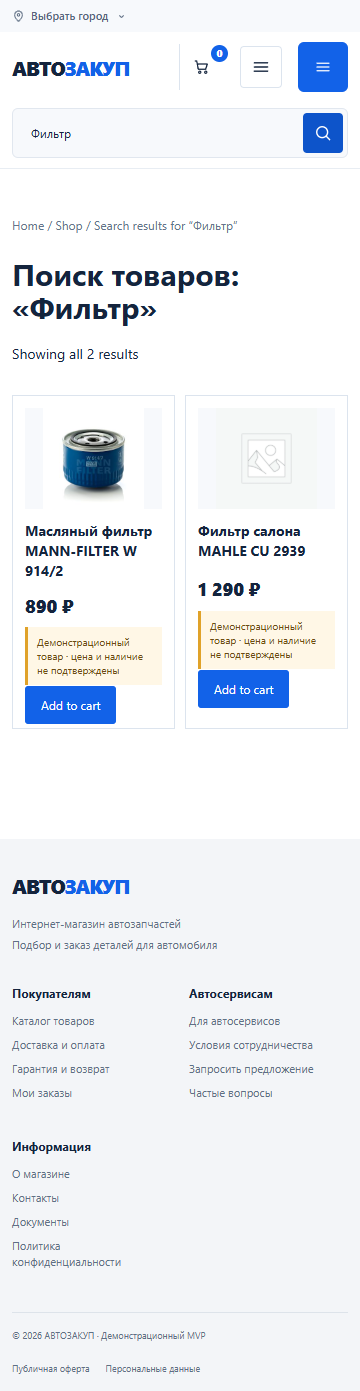
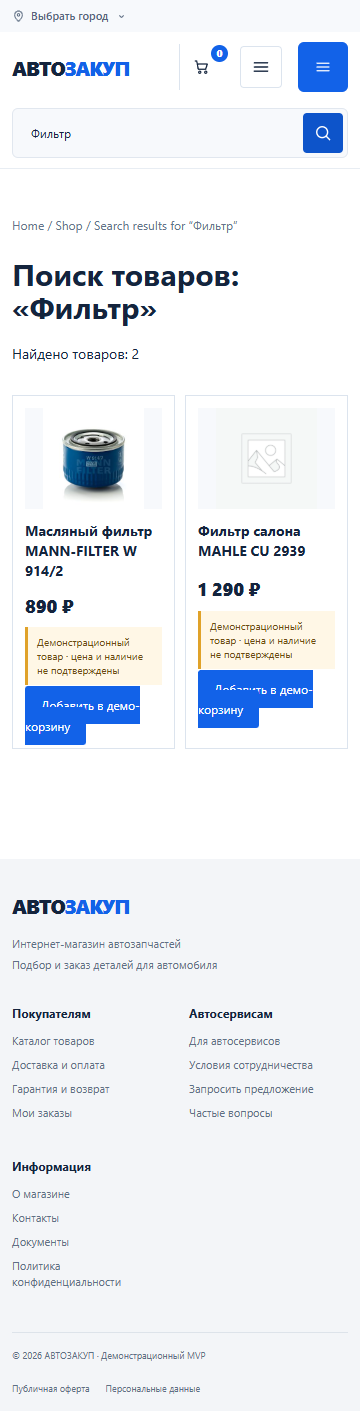
Align scoped Woo public copy

diff --git a/tests/e2e/catalog.spec.ts b/tests/e2e/catalog.spec.ts
@@ -28,6 +28,7 @@ test('opens the dynamic catalog and a published WooCommerce category', async ({ 
   expect(shopUrl, 'The header must expose the configured WooCommerce shop URL').toBeTruthy();
   expect(new URL(shopUrl!, page.url()).pathname, 'The repaired catalog route must use the canonical WooCommerce slug').toBe('/shop/');
   await page.goto(shopUrl!, { waitUntil: 'networkidle' });
+  await expect(page.getByRole('heading', { level: 1, name: 'Каталог товаров' })).toBeVisible();
 
   const catalog = page.locator('.az-shop-categories');
   await expect(catalog).toBeVisible();
@@ -149,6 +150,8 @@ test('keeps the marked demo PDP technical and relation-safe', async ({ page }, t
 
   await expect(page.locator('.woocommerce-product-details__short-description')).toBeVisible();
   await expect(page.locator('.woocommerce-Tabs-panel--description')).toBeVisible();
+  await expect(page.locator('.woocommerce-tabs .description_tab')).toContainText('Описание');
+  await expect(page.locator('.woocommerce-Tabs-panel--description h2')).toHaveText('Описание');
   await expect(page.locator('[data-demo-provenance="product"]')).toBeVisible();
 
   const demoMeta = page.locator('[data-demo-product-meta="product"]');

diff --git a/tests/e2e/search.spec.ts b/tests/e2e/search.spec.ts
@@ -93,6 +93,7 @@ test('keeps generic product-search results scoped and explicit', async ({ page }
   await expect(page.locator('[data-product-search-empty]')).toHaveCount(0);
   await expect(page.locator('.az-shop-categories')).toHaveCount(0);
   await expect(page.locator('.woocommerce-ordering')).toHaveCount(0);
+  await expect(page.locator('[data-product-search-count]')).toHaveText('Найдено товаров: 2');
 
   const products = page.locator('ul.products li.product');
   await expect(products).toHaveCount(2);
@@ -102,6 +103,7 @@ test('keeps generic product-search results scoped and explicit', async ({ page }
     await expect(productTitle).toBeVisible();
     expect((await productTitle.innerText()).trim()).not.toBe('');
     await expect(product.locator('[data-demo-provenance="product"]')).toContainText('Демонстрационный товар');
+    await expect(product.locator('.add_to_cart_button')).toHaveText('Добавить в демо-корзину');
     const productUrl = await product.locator('.woocommerce-loop-product__link').getAttribute('href');
     expect(productUrl).toBeTruthy();
     const parsedProductUrl = new URL(productUrl!, page.url());

diff --git a/wp-content/themes/avtozakup/style.css b/wp-content/themes/avtozakup/style.css
@@ -3,7 +3,7 @@ Theme Name: Автозакуп
 Theme URI: https://example.invalid/avtozakup
 Author: Автозакуп
 Description: Кастомная WooCommerce-тема первой итерации проекта «АВТОЗАКУП».
-Version: 0.6.0
+Version: 0.7.0
 Requires at least: 7.0
 Requires PHP: 8.3
 Text Domain: avtozakup

diff --git a/wp-content/themes/avtozakup/functions.php b/wp-content/themes/avtozakup/functions.php
@@ -5,7 +5,7 @@ if ( ! defined( 'ABSPATH' ) ) {
 	exit;
 }
 
-define( 'AVTOZAKUP_THEME_VERSION', '0.6.0' );
+define( 'AVTOZAKUP_THEME_VERSION', '0.7.0' );
 define( 'AVTOZAKUP_THEME_DIR', get_template_directory() );
 define( 'AVTOZAKUP_THEME_URI', get_template_directory_uri() );
 
@@ -173,6 +173,14 @@ function avtozakup_demo_single_add_to_cart_text( string $text, WC_Product $produ
 	return 'Добавить в демо-корзину';
 }
 
+function avtozakup_demo_loop_add_to_cart_text( string $text, WC_Product $product ): string {
+	$is_direct_add = $product->is_type( 'simple' )
+		&& $product->is_purchasable()
+		&& $product->is_in_stock()
+		&& $product->supports( 'ajax_add_to_cart' );
+	return null !== avtozakup_demo_product_provenance( $product ) && $is_direct_add ? 'Добавить в демо-корзину' : $text;
+}
+
 function avtozakup_is_product_search_request(): bool {
 	if ( ! is_search() ) {
 		return false;
@@ -183,13 +191,29 @@ function avtozakup_is_product_search_request(): bool {
 		|| ( is_array( $post_type ) && 1 === count( $post_type ) && 'product' === reset( $post_type ) );
 }
 
-function avtozakup_product_search_page_title( string $title ): string {
+function avtozakup_woocommerce_page_title( string $title ): string {
+	if ( function_exists( 'is_shop' ) && is_shop() && ! is_search() ) {
+		return 'Каталог товаров';
+	}
+
 	if ( ! avtozakup_is_product_search_request() ) {
 		return $title;
 	}
 
 	$query = sanitize_text_field( get_search_query( false ) );
 	return sprintf( 'Поиск товаров: «%s»', esc_html( $query ) );
+}
+
+function avtozakup_render_product_search_result_count(): void {
+	global $wp_query;
+	$count = $wp_query instanceof WP_Query ? (int) $wp_query->found_posts : 0;
+	?>
+	<p class="woocommerce-result-count" data-product-search-count><?php echo esc_html( sprintf( 'Найдено товаров: %d', $count ) ); ?></p>
+	<?php
+}
+
+function avtozakup_product_description_label( string $label ): string {
+	return 'Описание';
 }
 
 function avtozakup_render_product_search_empty_state(): void {
@@ -214,6 +238,8 @@ function avtozakup_configure_product_search_page(): void {
 
 	remove_action( 'woocommerce_no_products_found', 'wc_no_products_found', 10 );
 	add_action( 'woocommerce_no_products_found', 'avtozakup_render_product_search_empty_state', 10 );
+	remove_action( 'woocommerce_before_shop_loop', 'woocommerce_result_count', 20 );
+	add_action( 'woocommerce_before_shop_loop', 'avtozakup_render_product_search_result_count', 20 );
 	remove_action( 'woocommerce_before_shop_loop', 'woocommerce_catalog_ordering', 30 );
 }
 
@@ -223,7 +249,10 @@ add_action( 'wp', 'avtozakup_configure_demo_product_page' );
 add_action( 'wp', 'avtozakup_configure_product_search_page' );
 add_filter( 'woocommerce_get_availability_text', 'avtozakup_demo_product_availability_text', 10, 2 );
 add_filter( 'woocommerce_product_single_add_to_cart_text', 'avtozakup_demo_single_add_to_cart_text', 10, 2 );
-add_filter( 'woocommerce_page_title', 'avtozakup_product_search_page_title' );
+add_filter( 'woocommerce_product_add_to_cart_text', 'avtozakup_demo_loop_add_to_cart_text', 10, 2 );
+add_filter( 'woocommerce_product_description_tab_title', 'avtozakup_product_description_label' );
+add_filter( 'woocommerce_product_description_heading', 'avtozakup_product_description_label' );
+add_filter( 'woocommerce_page_title', 'avtozakup_woocommerce_page_title' );
 
 add_action(
 	'woocommerce_before_shop_loop',

diff --git a/docs/implementation/progress.md b/docs/implementation/progress.md
@@ -17,6 +17,7 @@
 | Demo provenance Woo | marked products явно подписаны на category/search cards и PDP; PDP показывает whitelisted Paper source, unknown raw meta не публикуется | реальные sources/freshness/offers только после DEC/интеграционных контрактов | `DONE / PROVISIONAL` для `I2-S3`; `PBL-011/FR-CAT-002/FR-OFR-002 partial` |
 | Technical demo PDP | exact seed SKU назван техническим, availability не выдаёт численный stock, action ведёт в демо-корзину, default related скрыт у marked demo | полный SCR-009, verified identifiers/relations/fitment/offers после DEC и контрактов | `DONE / PROVISIONAL` для `I2-S4`; `FR-CAT-002/003 partial` |
 | Product search baseline | neutral generic form; escaped query context/no-results; positive `Фильтр` → `2` product cards; shop category grid исключён из results | field index/ranking/normalization/suggestions и утверждённый DG-001/018 | `DONE / PROVISIONAL` для `I2-S5/S6`; `PBL-002/006/012` остаются blocked |
+| Scoped Woo public copy | shop H1, search count, demo loop action и PDP description labels локализованы named hooks без data mutation | breadcrumb/full Woo/admin/account/cart/checkout translation | `DONE / PROVISIONAL` для `I2-S7`; не полный i18n |
 | Demo safety | AJAX add, badge, cart page, classic disabled checkout и direct Store API 403 прошли; demo маркировка сохранена | production commerce остаётся blocked до DEC | `DONE` для demo safety Итерации 1 |
 | Mobile | `390` и `360` проходят no-overflow, axe baseline и browser-error checks | утверждённый mobile-макет после DEC-019/020 | `DONE` для provisional adaptation; `DESIGN_REVIEW_REQUIRED` |
 | Local Docker | dev config/build/up и restart persistence пройдены | повторять после инфраструктурных изменений | `DONE` для локального контура |
@@ -24,7 +25,7 @@
 | Backup/restore | парный DB+uploads backup проверен; isolated restore drill прошёл | production retention и scheduled recovery drill | `DONE` для локального drill |
 | Git deployment | ff-only/pre-backup/smoke script подготовлен, но Git remote и серверный target не подтверждены | создать/подтвердить remote, branch и staging/server access | `BLOCKED`; не DEPLOYED |
 | Server | доступ и диагностика не подтверждены | inventory existing sites/proxy/ports/volumes | `BLOCKED / NOT_DEPLOYED` |
-| E2E/a11y/visual | текущий Playwright: `28` tests, `26 passed`, `2 intentional skipped`, `0 failed`; catalog/search/PDP journeys на `1440/390/360` | утверждение visual baseline после DEC-019/020 | Iteration 1 и I2-S1/S3/S4/S5/S6 technical acceptance PASS; `DESIGN_REVIEW_REQUIRED` |
+| E2E/a11y/visual | текущий Playwright: `28` tests, `26 passed`, `2 intentional skipped`, `0 failed`; catalog/search/PDP journeys на `1440/390/360` | утверждение visual baseline после DEC-019/020 | Iteration 1 и I2-S1/S3/S4/S5/S6/S7 technical acceptance PASS; `DESIGN_REVIEW_REQUIRED` |
 
 ## Известные блокеры
 

diff --git a/docs/implementation/iterations.md b/docs/implementation/iterations.md
@@ -284,6 +284,35 @@ Qualifier: это prevention-срез; одноразовая локальная
 
 Статус относится только к generic fixture results presentation. Поля индекса, ranking и все перечисленные PBL/TC/DG/DEC остаются partial/open/blocked; visual имеет `DESIGN_REVIEW_REQUIRED`.
 
+### I2-S7 — scoped Woo public-copy consistency
+
+**Статус:** `DONE / PROVISIONAL`
+
+**Связь:** presentation quality для `I2-S1/S4/S6`, `PBL-010/011/012/PBL-040 partial`; бизнес-требования не расширяются.
+
+Критерии среза:
+
+- configured shop H1 отображается как «Каталог товаров» без изменения user-owned Woo page title;
+- product search result count отображается как «Найдено товаров: N» только на strict product search;
+- standard Woo loop action marked demo product подписан «Добавить в демо-корзину» только для direct-add simple/purchasable/in-stock/AJAX state; остальные состояния сохраняют штатный label;
+- PDP description tab и heading получают presentation label «Описание» без изменения content;
+- существующие catalog/search/PDP E2E утверждают эти labels на `1440/390/360` и screenshots обновляются;
+- data/query/ranking/cart guards и unmarked business data не меняются; полный regression не ухудшается.
+
+Вне scope: полноценный translation catalog, breadcrumb localization, admin copy, checkout/account/cart translation, approved typography/design and any business semantics.
+
+Выполнено и проверено:
+
+- shop H1 локализован presentation-only `woocommerce_page_title` filter; post title немаркированной Woo page не изменён;
+- strict product search заменяет только result-count callback на «Найдено товаров: N»; default query/count source сохранён;
+- direct-add marked demo Woo loop action и single action используют «Добавить в демо-корзину»; другие product states и checkout guard не менялись;
+- in-memory CTA gate control: current seeded direct-add product → demo label; cloned out-of-stock state сохраняет исходный `Read more`;
+- description tab/heading локализованы filters до «Описание» без template override/content mutation;
+- catalog/search/PDP targeted на `1440/390/360`: `15 passed`, `0 failed`; actual screenshots обновлены и визуально проверены;
+- full regression: `28` tests, `26 passed`, `2 intentional skipped`, `0 failed`.
+
+Статус относится только к четырём проверенным public labels. Breadcrumb, shop result count/sorting и остальные Woo/admin/account/cart/checkout strings остаются вне scope; visual `PROVISIONAL / DESIGN_REVIEW_REQUIRED`.
+
 ## Следующие итерации
 
 | Итерация-кандидат | Scope по исходному backlog | Gate |

diff --git a/docs/implementation/acceptance-status.md b/docs/implementation/acceptance-status.md
@@ -5,7 +5,7 @@
 
 **Приёмочный прогон Итерации 1:** `13` tests = `11 passed`, `2 intentional skipped`, `0 failed`.
 
-**Текущий regression после I2-S6:** `28` tests = `26 passed`, `2 intentional skipped`, `0 failed`; desktop `1440`, mobile `390`, mobile `360`, отдельный desktop admin project. Два skip — ожидаемые mobile-копии viewport-независимого Store API guard.
+**Текущий regression после I2-S7:** `28` tests = `26 passed`, `2 intentional skipped`, `0 failed`; desktop `1440`, mobile `390`, mobile `360`, отдельный desktop admin project. Два skip — ожидаемые mobile-копии viewport-независимого Store API guard.
 
 ## Технические критерии Итерации 2
 
@@ -77,6 +77,18 @@ I2-S5 имеет qualifier `PROVISIONAL / DESIGN_REVIEW_REQUIRED`; `TC-003` за
 | I2-S6-ACC-005 | Regression не ухудшен | `28` tests: `26 passed`, `2 intentional skipped`, `0 failed` | `PASS` |
 
 I2-S6 имеет qualifier `PROVISIONAL / DESIGN_REVIEW_REQUIRED`; field index contract, ranking, SKU/OEM/brand, `TC-001/002`, `DG-001/018` и `DEC-003` остаются open/blocked.
+
+### I2-S7 — scoped Woo public-copy consistency
+
+| ID | Критерий | Доказательство | Статус |
+|---|---|---|---|
+| I2-S7-ACC-001 | Shop title локализован без page mutation | `/shop/` H1 «Каталог товаров» на `1440/390/360`; filter-only | `PASS` |
+| I2-S7-ACC-002 | Search count локален и scoped | strict product search показывает `[data-product-search-count]` = «Найдено товаров: 2» | `PASS` |
+| I2-S7-ACC-003 | Direct-add demo action не выглядит production CTA | обе simple/purchasable/in-stock/AJAX result cards: demo label; in-memory out-of-stock clone сохраняет `Read more`; single PDP action остаётся demo | `PASS` |
+| I2-S7-ACC-004 | PDP description labels согласованы | marked PDP tab + heading «Описание» на `1440/390/360`; unconditional presentation filters, content unchanged | `PASS` |
+| I2-S7-ACC-005 | Regression не ухудшен | targeted `15 passed`; full `28`: `26 passed`, `2 intentional skipped`, `0 failed` | `PASS` |
+
+I2-S7 имеет qualifier `PROVISIONAL / DESIGN_REVIEW_REQUIRED`; breadcrumb, shop result count/sorting и полная Woo/admin/account/cart/checkout локализация не закрыты.
 
 ## Технические критерии Итерации 1
 

diff --git a/docs/implementation/requirements-map.md b/docs/implementation/requirements-map.md
@@ -45,6 +45,7 @@
 | I2-S4 — technical demo PDP safety | FR-CAT-002 partial; FR-CAT-003 safety partial; PBL-011/PBL-040 partial | exact technical demo-SKU label; non-numeric unconfirmed availability; demo-cart action; related output removed only for marked demo | in-memory fail-closed SKU predicate; PDP scenario `3 passed`; catalog file `9 passed`; full `20 passed / 2 skipped`; axe + 3 screenshots | `DONE / PROVISIONAL`; full SCR-009, OEM/relations/fitment/offers/real stock remain open |
 | I2-S5 — truthful search empty state | FR-SRCH-001—003 presentation partial; UC-SRCH-001 submit/no-results; PBL-002/006/012 safety partial; TC-003 presentation partial; TC-001/002 blocked | generic search label; escaped query H1/searchbox/status; strict product-only form; configured shop return | special-character zero-result query on `1440/390/360`: `3 passed`; full `23 passed / 2 skipped`; axe + 3 screenshots | `DONE / PROVISIONAL`; index/ranking/normalization/suggestions/design remain blocked |
 | I2-S6 — generic search results | FR-SRCH-001—003 presentation partial; UC-SRCH-001 submit/results; PBL-002/006/012 safety partial; TC-003 presentation partial | neutral field-agnostic copy; unmodified Woo/WP query; product cards/provenance; shop categories and unapproved ordering excluded | fixture content audit `10`; `Фильтр` → `2` product cards; search file `6 passed`; full `26 passed / 2 skipped`; axe + 3 screenshots | `DONE / PROVISIONAL`; field contract/ranking/OEM/brand/design remain blocked |
+| I2-S7 — scoped Woo public copy | PBL-010/011/012/PBL-040 presentation partial; no new business scope | shop H1; search result count; direct-add demo loop action; PDP description labels via named filters/hooks | catalog/search/PDP `15 passed`; full `26 passed / 2 skipped`; existing screenshots updated | `DONE / PROVISIONAL`; breadcrumb/full localization/design remain open |
 
 ## Статусы исходного backlog
 

diff --git a/docs/implementation/decision-log.md b/docs/implementation/decision-log.md
@@ -19,6 +19,7 @@
 | TECH-013 | 2026-11-01 | До согласованного индекса UI обещает только generic product search без перечисления полей; no-results query явно escaped на Woo output boundary | Убирает ложное обещание article/brand search и XSS-prone raw title output, не меняя query/ranking; отдельный search design остаётся неутверждённым | принято для I2-S5/S6; DG-001/018 и DEC-003 open |
 | TECH-014 | 2026-11-01 | Curated shop category grid выводится только на shop, не на product search | Woo `is_shop()` включает search archive; явный `!is_search()` сохраняет смысл SCR-005 и не засоряет results unrelated navigation | принято для I2-S6; search design всё ещё provisional |
 | TECH-015 | 2026-11-01 | `Relevance` ordering control скрывается только на product search до ranking contract | Не создаёт ложного впечатления утверждённого ranking; underlying Woo/WP query и result count не меняются | принято для I2-S6; ranking остаётся blocked |
+| TECH-016 | 2026-11-01 | Четыре проверенных Woo public labels локализуются named hooks/filters без gettext/template override; demo loop CTA меняется только в direct-add state | Сужает blast radius, сохраняет labels out-of-stock/variable states и не меняет user-owned page/content/data; full translation catalog остаётся отдельной задачей | принято для I2-S7; partial public copy only |
 
 ## Состояние DEC
 

diff --git a/docs/implementation/component-registry.md b/docs/implementation/component-registry.md
@@ -15,7 +15,8 @@
 | Hero/promo | SCR-002 | `front-page.php`, Settings API | editable copy/media | normal + image fallback via defaults | homepage; `TESTING` |
 | Benefits row | SCR-002 | `front-page.php` | static presentation copy | normal | reusable card pattern; `TESTING` |
 | Category card/grid | UI-SCR002-012; SCR-005 | shared `helpers.php`, homepage и shop hook | Woo category | populated + CRUD/render/cleanup; reused on configured shop page | I2-S1 `PASS / PROVISIONAL`; master taxonomy TBD |
-| Product card/row | UI-SCR002-013—015 | `helpers.php` | WC product | demo/real label, in/out stock, add/details; CRUD/render проверен | listings later; business meaning `BLOCKED`, UI `PASS` |
+| Product card/row | UI-SCR002-013—015 | `helpers.php`, Woo filters | WC product | demo/real label, in/out stock; standard Woo direct-add loop имеет explicit demo action; CRUD/render проверен | I2-S3/S7 `PASS / PROVISIONAL`; business meaning `BLOCKED` |
+| Product detail technical baseline | SCR-009 partial | Woo hooks/filters, no template override | WC product + demo marker | provenance, technical SKU, unconfirmed availability, demo action, description labels; related suppressed for demo | I2-S3/S4/S7 `PASS / PROVISIONAL`; full PDP `BLOCKED` |
 | VIN entry block | UI-SCR002-016 | `front-page.php` | no persistence | partial input + status, no submit | SCR-004 later; `BLOCKED` |
 | B2B banner | UI-SCR002-017 | `front-page.php` | editable copy | info/status only | DG-009 later; `BLOCKED` |
 | Pickup/delivery block | UI-SCR002-018 | `front-page.php` | editable copy, no tariff | illustrative map/status | SCR-011/012 later; `BLOCKED` |

diff --git a/docs/qa/visual-diffs/README.md b/docs/qa/visual-diffs/README.md
@@ -108,6 +108,13 @@ report-home-YYYYMMDD.md
 - positive scenario: `3 passed`; search file: `6 passed`; full regression: `28 tests`, `26 passed`, `2 intentional skipped`, `0 failed`;
 - axe serious/critical = `0`, no-overflow/runtime assertions прошли на `1440/390/360`; visual `PROVISIONAL / DESIGN_REVIEW_REQUIRED`.
 
+## Scoped Woo public copy I2-S7
+
+- existing shop/search/PDP screenshots обновлены: «Каталог товаров», «Найдено товаров: N», demo loop action и «Описание»;
+- targeted catalog/search/PDP: `15 passed`; full regression: `28 tests`, `26 passed`, `2 intentional skipped`, `0 failed`;
+- это не полный translation baseline: breadcrumb, shop result count/sorting и прочие Woo strings остаются открыты;
+- visual `PROVISIONAL / DESIGN_REVIEW_REQUIRED`.
+
 ## Отчёт
 
 Для каждого расхождения указать: компонент, координату/селектор, expected, actual, severity, источник (`Paper`, `DG`, `DEC`), принятое действие и статус. Не «исправлять» неоднозначность Paper без записи в decision log.

diff --git a/README.md b/README.md
@@ -21,6 +21,7 @@
 - первый срез Итерации 2: динамическая настроенная WooCommerce shop page с восемью curated категориями, общими category cards и переходом в category archive;
 - technical demo PDP baseline: явная provenance, fail-closed technical SKU, unconfirmed availability и отсутствие неподтверждённых related products;
 - provisional generic product search: escaped results/no-results context и canonical возврат в каталог; field index/article/brand/ranking не заявлены;
+- scoped public Woo copy: shop H1, search count, demo actions и PDP description labels; полная локализация остаётся отдельной задачей;
 - локальный и production Compose, Caddy с CIDR-ограничением админки, именованные volumes;
 - backup/restore связанного комплекта MariaDB + `uploads`;
 - Playwright: публичная главная, AJAX cart, Store API guard, админка, сохранение настроек, axe и screenshots;
